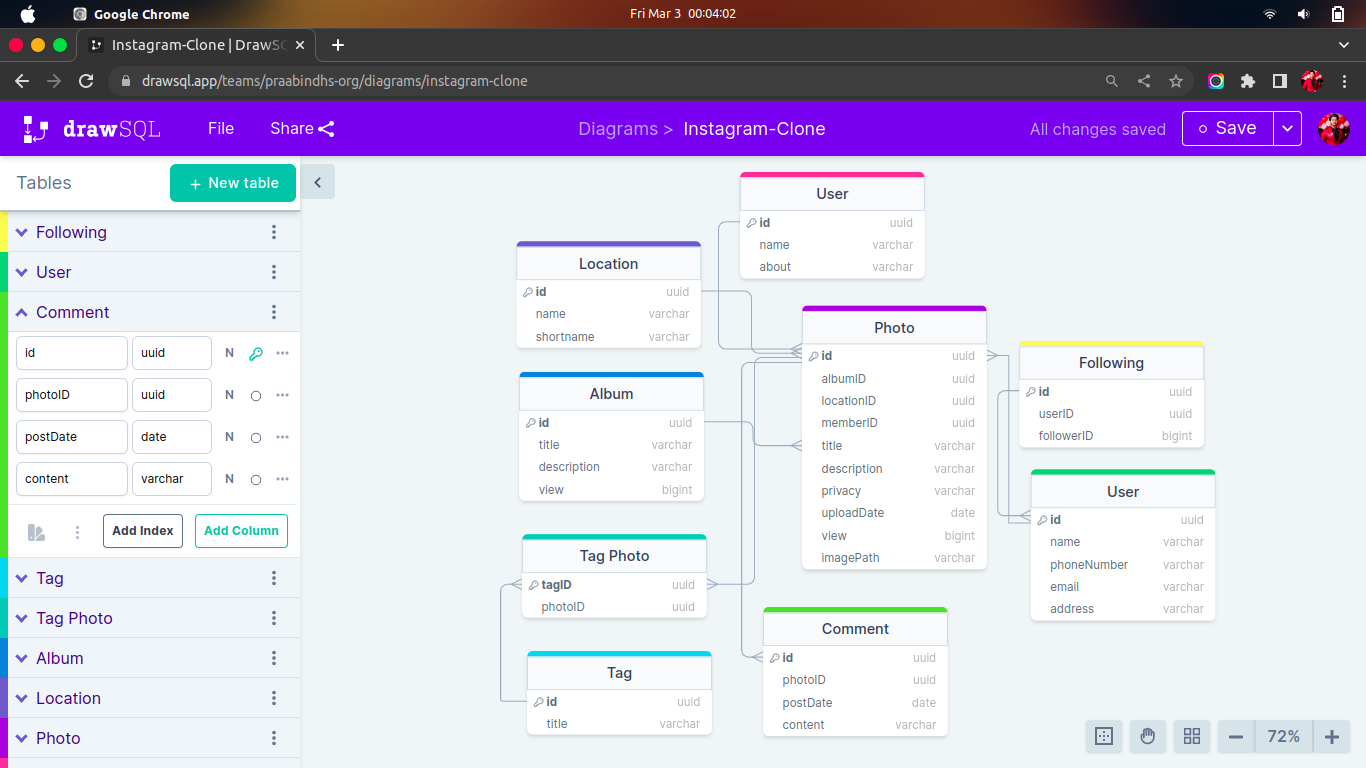
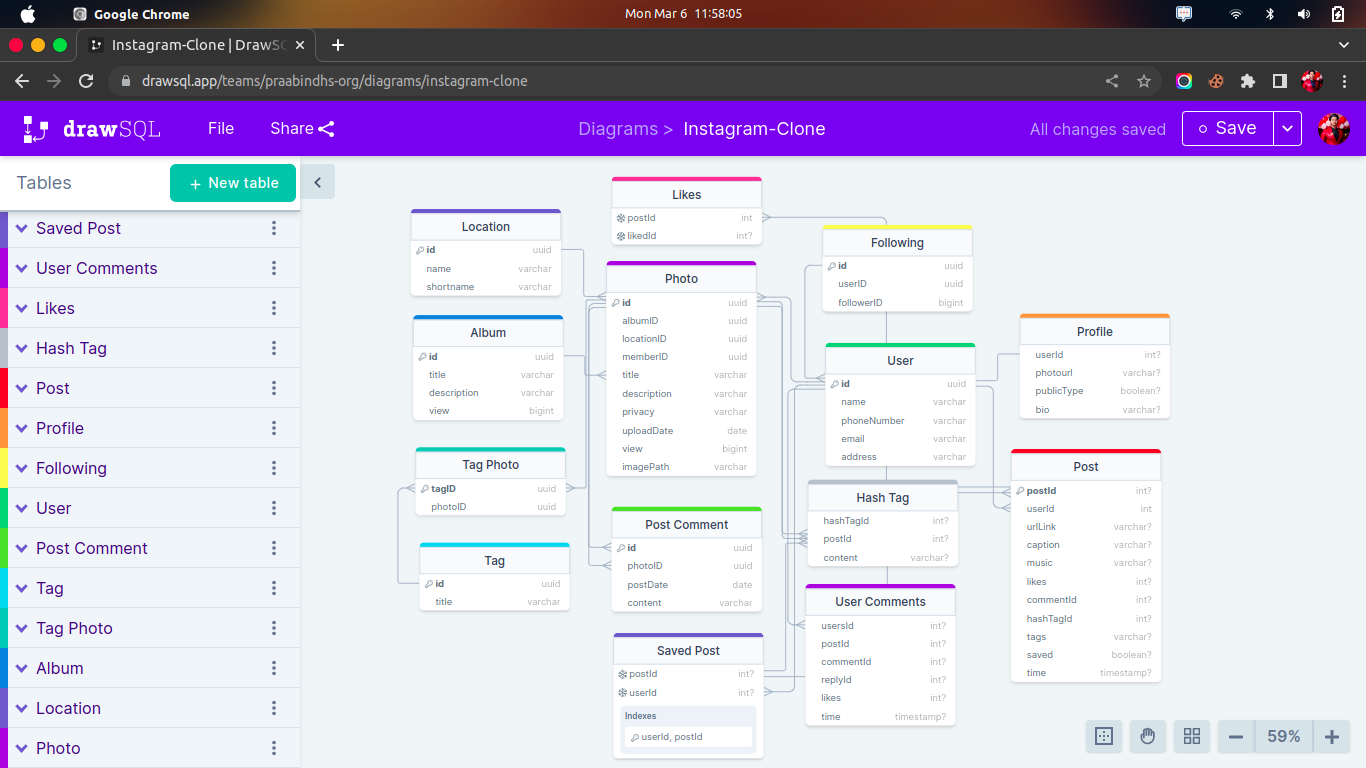
Worked With SchemaWind

diff --git a/instagram.html b/instagram.html
@@ -4,8 +4,8 @@
     <meta charset="UTF-8">
     <meta http-equiv="X-UA-Compatible" content="IE=edge">
     <meta name="viewport" content="width=device-width, initial-scale=1.0">
-    <title>SchemaWind | Praabindh's Org</title>
-    <link rel="SQL-Draw" href="https://drawsql.app/teams/praabindhs-org/diagrams/paypal-clone/embed" />
+    <title>SchemaWind | Instagram</title>
+    <link rel="SQL-Draw" href="https://drawsql.app/teams/praabindhs-org/diagrams/instagram-clone/embed"/>
 
     <!-- Meta SEO -->
     <meta name="title" content="Landwind - Tailwind CSS Landing Page">
@@ -38,7 +38,7 @@
                         <a class="github-button" href="https://github.com/praabindh/SchemaWind" data-size="large" data-icon="octicon-star" data-show-count="true" aria-label="Star themesberg/landwind on GitHub">Star</a>
                     </div>
                     <a href="#" class="text-gray-800 dark:text-white hover:bg-gray-50 focus:ring-4 focus:ring-gray-300 font-medium rounded-lg text-sm px-4 lg:px-5 py-2 lg:py-2.5 sm:mr-2 dark:hover:bg-gray-700 focus:outline-none dark:focus:ring-gray-800">Log In</a>
-                    <a href="SQLs/Paypal-PGSQL.sql" download class="text-white bg-purple-700 hover:bg-purple-800 focus:ring-4 focus:ring-purple-300 font-medium rounded-lg text-sm px-4 lg:px-5 py-2 lg:py-2.5 sm:mr-2 lg:mr-0 dark:bg-purple-600 dark:hover:bg-purple-700 focus:outline-none dark:focus:ring-purple-800">Download SQL</a>
+                    <a href="SQLs/Instagram-MySQL.sql" download class="text-white bg-purple-700 hover:bg-purple-800 focus:ring-4 focus:ring-purple-300 font-medium rounded-lg text-sm px-4 lg:px-5 py-2 lg:py-2.5 sm:mr-2 lg:mr-0 dark:bg-purple-600 dark:hover:bg-purple-700 focus:outline-none dark:focus:ring-purple-800">Download SQL</a>
                     <button data-collapse-toggle="mobile-menu-2" type="button" class="inline-flex items-center p-2 ml-1 text-sm text-gray-500 rounded-lg lg:hidden hover:bg-gray-100 focus:outline-none focus:ring-2 focus:ring-gray-200 dark:text-gray-400 dark:hover:bg-gray-700 dark:focus:ring-gray-600" aria-controls="mobile-menu-2" aria-expanded="false">
                         <span class="sr-only">Open Main Menu</span>
                         <svg class="w-6 h-6" fill="currentColor" viewBox="0 0 20 20" xmlns="http://www.w3.org/2000/svg"><path fill-rule="evenodd" d="M3 5a1 1 0 011-1h12a1 1 0 110 2H4a1 1 0 01-1-1zM3 10a1 1 0 011-1h12a1 1 0 110 2H4a1 1 0 01-1-1zM3 15a1 1 0 011-1h12a1 1 0 110 2H4a1 1 0 01-1-1z" clip-rule="evenodd"></path></svg>
@@ -72,19 +72,19 @@
     <section class="bg-white dark:bg-gray-900">
         <div class="grid max-w-screen-xl px-4 pt-20 pb-8 mx-auto lg:gap-8 xl:gap-0 lg:py-16 lg:grid-cols-12 lg:pt-28">
             <div class="mr-auto place-self-center lg:col-span-7">
-                <h1 class="max-w-2xl mb-4 text-4xl font-extrabold leading-none tracking-tight md:text-5xl xl:text-6xl dark:text-white">The SchemaWind<br>By Praabindh's Org</h1>
-                <p class="max-w-2xl mb-6 font-light text-gray-500 lg:mb-8 md:text-lg lg:text-xl dark:text-gray-400">An open-source project for developers to use working schema of various fields of technological domains as well as for contributing to resolving the rising demands of models, database, and schema structures.</p>
+                <h1 class="max-w-2xl mb-4 text-4xl font-extrabold leading-none tracking-tight md:text-5xl xl:text-6xl dark:text-white">Instagram's Schema <br>By Praabindh.</h1>
+                <p class="max-w-2xl mb-6 font-light text-gray-500 lg:mb-8 md:text-lg lg:text-xl dark:text-gray-400">PostgreSQL is the primary database of the application, it stores most of the data of the platform such as user data, photos, tags, meta-tags, etc.</p>
                 <div class="space-y-4 sm:flex sm:space-y-0 sm:space-x-4">
                     <a href="https://github.com/praabindhp" class="inline-flex items-center justify-center w-full px-5 py-3 text-sm font-medium text-center text-gray-900 border border-gray-200 rounded-lg sm:w-auto hover:bg-gray-100 focus:ring-4 focus:ring-gray-100 dark:text-white dark:border-gray-700 dark:hover:bg-gray-700 dark:focus:ring-gray-800">
                         <svg class="w-4 h-4 mr-2 text-gray-500 dark:text-gray-400" xmlns="http://www.w3.org/2000/svg" viewBox="0 0 496 512"><!-- Font Awesome Pro 5.15.4 by @fontawesome - https://fontawesome.com License - https://fontawesome.com/license (Commercial License) --><path d="M165.9 397.4c0 2-2.3 3.6-5.2 3.6-3.3.3-5.6-1.3-5.6-3.6 0-2 2.3-3.6 5.2-3.6 3-.3 5.6 1.3 5.6 3.6zm-31.1-4.5c-.7 2 1.3 4.3 4.3 4.9 2.6 1 5.6 0 6.2-2s-1.3-4.3-4.3-5.2c-2.6-.7-5.5.3-6.2 2.3zm44.2-1.7c-2.9.7-4.9 2.6-4.6 4.9.3 2 2.9 3.3 5.9 2.6 2.9-.7 4.9-2.6 4.6-4.6-.3-1.9-3-3.2-5.9-2.9zM244.8 8C106.1 8 0 113.3 0 252c0 110.9 69.8 205.8 169.5 239.2 12.8 2.3 17.3-5.6 17.3-12.1 0-6.2-.3-40.4-.3-61.4 0 0-70 15-84.7-29.8 0 0-11.4-29.1-27.8-36.6 0 0-22.9-15.7 1.6-15.4 0 0 24.9 2 38.6 25.8 21.9 38.6 58.6 27.5 72.9 20.9 2.3-16 8.8-27.1 16-33.7-55.9-6.2-112.3-14.3-112.3-110.5 0-27.5 7.6-41.3 23.6-58.9-2.6-6.5-11.1-33.3 2.6-67.9 20.9-6.5 69 27 69 27 20-5.6 41.5-8.5 62.8-8.5s42.8 2.9 62.8 8.5c0 0 48.1-33.6 69-27 13.7 34.7 5.2 61.4 2.6 67.9 16 17.7 25.8 31.5 25.8 58.9 0 96.5-58.9 104.2-114.8 110.5 9.2 7.9 17 22.9 17 46.4 0 33.7-.3 75.4-.3 83.6 0 6.5 4.6 14.4 17.3 12.1C428.2 457.8 496 362.9 496 252 496 113.3 383.5 8 244.8 8zM97.2 352.9c-1.3 1-1 3.3.7 5.2 1.6 1.6 3.9 2.3 5.2 1 1.3-1 1-3.3-.7-5.2-1.6-1.6-3.9-2.3-5.2-1zm-10.8-8.1c-.7 1.3.3 2.9 2.3 3.9 1.6 1 3.6.7 4.3-.7.7-1.3-.3-2.9-2.3-3.9-2-.6-3.6-.3-4.3.7zm32.4 35.6c-1.6 1.3-1 4.3 1.3 6.2 2.3 2.3 5.2 2.6 6.5 1 1.3-1.3.7-4.3-1.3-6.2-2.2-2.3-5.2-2.6-6.5-1zm-11.4-14.7c-1.6 1-1.6 3.6 0 5.9 1.6 2.3 4.3 3.3 5.6 2.3 1.6-1.3 1.6-3.9 0-6.2-1.4-2.3-4-3.3-5.6-2z"/></svg> GitHub Profile
-                    </a>
-                    <a href="https://drawsql.app/teams/praabindhs-org/diagrams/paypal-clone" class="inline-flex items-center justify-center w-full px-5 py-3 mb-2 mr-2 text-sm font-medium text-gray-900 bg-white border border-gray-200 rounded-lg sm:w-auto focus:outline-none hover:bg-gray-100 hover:text-blue-700 focus:z-10 focus:ring-4 focus:ring-gray-200 dark:focus:ring-gray-700 dark:bg-gray-800 dark:text-gray-400 dark:border-gray-600 dark:hover:text-white dark:hover:bg-gray-700">
+                    </a> 
+                    <a href="https://drawsql.app/teams/praabindhs-org/diagrams/instagram-clone" class="inline-flex items-center justify-center w-full px-5 py-3 mb-2 mr-2 text-sm font-medium text-gray-900 bg-white border border-gray-200 rounded-lg sm:w-auto focus:outline-none hover:bg-gray-100 hover:text-blue-700 focus:z-10 focus:ring-4 focus:ring-gray-200 dark:focus:ring-gray-700 dark:bg-gray-800 dark:text-gray-400 dark:border-gray-600 dark:hover:text-white dark:hover:bg-gray-700">
                         <svg class="w-4 h-4 mr-2" id="Layer_1" xmlns="http://www.w3.org/2000/svg" viewBox="0 0 200 300" width="1667" height="2500"><style type="text/css">.st0{fill:#0acf83}.st1{fill:#a259ff}.st2{fill:#f24e1e}.st3{fill:#ff7262}.st4{fill:#1abcfe}</style><title>Figma.logo</title><desc>Created using Figma</desc><path id="path0_fill" class="st0" d="M50 300c27.6 0 50-22.4 50-50v-50H50c-27.6 0-50 22.4-50 50s22.4 50 50 50z"/><path id="path1_fill" class="st1" d="M0 150c0-27.6 22.4-50 50-50h50v100H50c-27.6 0-50-22.4-50-50z"/><path id="path1_fill_1_" class="st2" d="M0 50C0 22.4 22.4 0 50 0h50v100H50C22.4 100 0 77.6 0 50z"/><path id="path2_fill" class="st3" d="M100 0h50c27.6 0 50 22.4 50 50s-22.4 50-50 50h-50V0z"/><path id="path3_fill" class="st4" d="M200 150c0 27.6-22.4 50-50 50s-50-22.4-50-50 22.4-50 50-50 50 22.4 50 50z"/></svg> Schema File
                     </a>
                 </div>
             </div>
             <div class="hidden lg:mt-0 lg:col-span-5 lg:flex">
-                <a href="index.html"><img src="./images/hero.png" alt="hero image"></a>
+                <a href="index.html"><img src="./images/Instagram-Hero.png" alt="hero image"></a>
             </div>                
         </div>
     </section>
@@ -119,8 +119,32 @@
     <section class="bg-gray-50 dark:bg-gray-800">
         <div class="max-w-screen-xl px-4 py-8 mx-auto space-y-12 lg:space-y-20 lg:py-24 lg:px-6">
             <!-- Row -->
-            <div class="items-center gap-8 lg:grid lg:grid-cols-1 xl:gap-16">
-                <iframe width="100%" height="500px" style="box-shadow: 0 2px 8px 0 rgba(63,69,81,0.16); border-radius:15px;" allowtransparency="true" allowfullscreen="true" scrolling="no" title="Embedded DrawSQL IFrame" frameborder="0" src="https://drawsql.app/teams/praabindhs-org/diagrams/paypal-clone/embed"></iframe>
+            <div class="items-center gap-8 lg:grid lg:grid-cols-2 xl:gap-16">
+                <div class="text-gray-500 sm:text-lg dark:text-gray-400">
+                    <h2 class="mb-4 text-3xl font-extrabold tracking-tight text-gray-900 dark:text-white">Instagram Schema Using DrawSQL</h2>
+                    <p class="mb-8 font-light lg:text-xl">Instagram database schema portrays the “blueprint” of a database which describes how the data may relate to other tables or other data models.</p>
+                    <!-- List -->
+                    <ul role="list" class="pt-8 space-y-5 border-t border-gray-200 my-7 dark:border-gray-700">
+                        <li class="flex space-x-3">
+                            <!-- Icon -->
+                            <svg class="flex-shrink-0 w-5 h-5 text-purple-500 dark:text-purple-400" fill="currentColor" viewBox="0 0 20 20" xmlns="http://www.w3.org/2000/svg"><path fill-rule="evenodd" d="M10 18a8 8 0 100-16 8 8 0 000 16zm3.707-9.293a1 1 0 00-1.414-1.414L9 10.586 7.707 9.293a1 1 0 00-1.414 1.414l2 2a1 1 0 001.414 0l4-4z" clip-rule="evenodd"></path></svg>
+                            <span class="text-base font-medium leading-tight text-gray-900 dark:text-white">Continuous Integration And Deployment</span>
+                        </li>
+                        <li class="flex space-x-3">
+                            <!-- Icon -->
+                            <svg class="flex-shrink-0 w-5 h-5 text-purple-500 dark:text-purple-400" fill="currentColor" viewBox="0 0 20 20" xmlns="http://www.w3.org/2000/svg"><path fill-rule="evenodd" d="M10 18a8 8 0 100-16 8 8 0 000 16zm3.707-9.293a1 1 0 00-1.414-1.414L9 10.586 7.707 9.293a1 1 0 00-1.414 1.414l2 2a1 1 0 001.414 0l4-4z" clip-rule="evenodd"></path></svg>
+                            <span class="text-base font-medium leading-tight text-gray-900 dark:text-white">Developmental Workflow</span>
+                        </li>
+                        <li class="flex space-x-3">
+                            <!-- Icon -->
+                            <svg class="flex-shrink-0 w-5 h-5 text-purple-500 dark:text-purple-400" fill="currentColor" viewBox="0 0 20 20" xmlns="http://www.w3.org/2000/svg"><path fill-rule="evenodd" d="M10 18a8 8 0 100-16 8 8 0 000 16zm3.707-9.293a1 1 0 00-1.414-1.414L9 10.586 7.707 9.293a1 1 0 00-1.414 1.414l2 2a1 1 0 001.414 0l4-4z" clip-rule="evenodd"></path></svg>
+                            <span class="text-base font-medium leading-tight text-gray-900 dark:text-white">Dynamic Representation</span>
+                        </li>
+                    </ul>
+                    <p class="mb-8 font-light lg:text-xl">
+                        Instagram mainly uses two backend database systems: PostgreSQL and Cassandra. Both PostgreSQL and Cassandra have mature replication frameworks that work well as a globally consistent data store. Global data neatly maps to data stored in these servers.</p>
+                </div>
+                <iframe width="100%" height="500px" style="box-shadow: 0 2px 8px 0 rgba(63,69,81,0.16); border-radius:15px;" allowtransparency="true" allowfullscreen="true" scrolling="no" title="Embedded DrawSQL IFrame" frameborder="0" src="https://drawsql.app/teams/praabindhs-org/diagrams/instagram-clone/embed"></iframe>    
             </div>
             <!-- Row -->
         </div>

diff --git a/twitter.html b/twitter.html
@@ -4,8 +4,8 @@
     <meta charset="UTF-8">
     <meta http-equiv="X-UA-Compatible" content="IE=edge">
     <meta name="viewport" content="width=device-width, initial-scale=1.0">
-    <title>SchemaWind | Praabindh's Org</title>
-    <link rel="SQL-Draw" href="https://drawsql.app/teams/praabindhs-org/diagrams/paypal-clone/embed" />
+    <title>SchemaWind | Twitter</title>
+    <link rel="SQL-Draw" href="https://drawsql.app/teams/praabindhs-org/diagrams/twitter-clone/embed" />
 
     <!-- Meta SEO -->
     <meta name="title" content="Landwind - Tailwind CSS Landing Page">
@@ -38,7 +38,7 @@
                         <a class="github-button" href="https://github.com/praabindh/SchemaWind" data-size="large" data-icon="octicon-star" data-show-count="true" aria-label="Star themesberg/landwind on GitHub">Star</a>
                     </div>
                     <a href="#" class="text-gray-800 dark:text-white hover:bg-gray-50 focus:ring-4 focus:ring-gray-300 font-medium rounded-lg text-sm px-4 lg:px-5 py-2 lg:py-2.5 sm:mr-2 dark:hover:bg-gray-700 focus:outline-none dark:focus:ring-gray-800">Log In</a>
-                    <a href="SQLs/Paypal-PGSQL.sql" download class="text-white bg-purple-700 hover:bg-purple-800 focus:ring-4 focus:ring-purple-300 font-medium rounded-lg text-sm px-4 lg:px-5 py-2 lg:py-2.5 sm:mr-2 lg:mr-0 dark:bg-purple-600 dark:hover:bg-purple-700 focus:outline-none dark:focus:ring-purple-800">Download SQL</a>
+                    <a href="SQLs/Twitter-MySQL.sql" download class="text-white bg-purple-700 hover:bg-purple-800 focus:ring-4 focus:ring-purple-300 font-medium rounded-lg text-sm px-4 lg:px-5 py-2 lg:py-2.5 sm:mr-2 lg:mr-0 dark:bg-purple-600 dark:hover:bg-purple-700 focus:outline-none dark:focus:ring-purple-800">Download SQL</a>
                     <button data-collapse-toggle="mobile-menu-2" type="button" class="inline-flex items-center p-2 ml-1 text-sm text-gray-500 rounded-lg lg:hidden hover:bg-gray-100 focus:outline-none focus:ring-2 focus:ring-gray-200 dark:text-gray-400 dark:hover:bg-gray-700 dark:focus:ring-gray-600" aria-controls="mobile-menu-2" aria-expanded="false">
                         <span class="sr-only">Open Main Menu</span>
                         <svg class="w-6 h-6" fill="currentColor" viewBox="0 0 20 20" xmlns="http://www.w3.org/2000/svg"><path fill-rule="evenodd" d="M3 5a1 1 0 011-1h12a1 1 0 110 2H4a1 1 0 01-1-1zM3 10a1 1 0 011-1h12a1 1 0 110 2H4a1 1 0 01-1-1zM3 15a1 1 0 011-1h12a1 1 0 110 2H4a1 1 0 01-1-1z" clip-rule="evenodd"></path></svg>
@@ -72,19 +72,19 @@
     <section class="bg-white dark:bg-gray-900">
         <div class="grid max-w-screen-xl px-4 pt-20 pb-8 mx-auto lg:gap-8 xl:gap-0 lg:py-16 lg:grid-cols-12 lg:pt-28">
             <div class="mr-auto place-self-center lg:col-span-7">
-                <h1 class="max-w-2xl mb-4 text-4xl font-extrabold leading-none tracking-tight md:text-5xl xl:text-6xl dark:text-white">The SchemaWind<br>By Praabindh's Org</h1>
-                <p class="max-w-2xl mb-6 font-light text-gray-500 lg:mb-8 md:text-lg lg:text-xl dark:text-gray-400">An open-source project for developers to use working schema of various fields of technological domains as well as for contributing to resolving the rising demands of models, database, and schema structures.</p>
+                <h1 class="max-w-2xl mb-4 text-4xl font-extrabold leading-none tracking-tight md:text-5xl xl:text-6xl dark:text-white">Twitter's Schema<br>By Praabindh.</h1>
+                <p class="max-w-2xl mb-6 font-light text-gray-500 lg:mb-8 md:text-lg lg:text-xl dark:text-gray-400">Gizzard is Twitter’s distributed data storage framework built on top of MySQL (InnoDB). InnoDB was chosen because it doesn’t corrupt data. Gizzard us just a datastore.</p>
                 <div class="space-y-4 sm:flex sm:space-y-0 sm:space-x-4">
                     <a href="https://github.com/praabindhp" class="inline-flex items-center justify-center w-full px-5 py-3 text-sm font-medium text-center text-gray-900 border border-gray-200 rounded-lg sm:w-auto hover:bg-gray-100 focus:ring-4 focus:ring-gray-100 dark:text-white dark:border-gray-700 dark:hover:bg-gray-700 dark:focus:ring-gray-800">
                         <svg class="w-4 h-4 mr-2 text-gray-500 dark:text-gray-400" xmlns="http://www.w3.org/2000/svg" viewBox="0 0 496 512"><!-- Font Awesome Pro 5.15.4 by @fontawesome - https://fontawesome.com License - https://fontawesome.com/license (Commercial License) --><path d="M165.9 397.4c0 2-2.3 3.6-5.2 3.6-3.3.3-5.6-1.3-5.6-3.6 0-2 2.3-3.6 5.2-3.6 3-.3 5.6 1.3 5.6 3.6zm-31.1-4.5c-.7 2 1.3 4.3 4.3 4.9 2.6 1 5.6 0 6.2-2s-1.3-4.3-4.3-5.2c-2.6-.7-5.5.3-6.2 2.3zm44.2-1.7c-2.9.7-4.9 2.6-4.6 4.9.3 2 2.9 3.3 5.9 2.6 2.9-.7 4.9-2.6 4.6-4.6-.3-1.9-3-3.2-5.9-2.9zM244.8 8C106.1 8 0 113.3 0 252c0 110.9 69.8 205.8 169.5 239.2 12.8 2.3 17.3-5.6 17.3-12.1 0-6.2-.3-40.4-.3-61.4 0 0-70 15-84.7-29.8 0 0-11.4-29.1-27.8-36.6 0 0-22.9-15.7 1.6-15.4 0 0 24.9 2 38.6 25.8 21.9 38.6 58.6 27.5 72.9 20.9 2.3-16 8.8-27.1 16-33.7-55.9-6.2-112.3-14.3-112.3-110.5 0-27.5 7.6-41.3 23.6-58.9-2.6-6.5-11.1-33.3 2.6-67.9 20.9-6.5 69 27 69 27 20-5.6 41.5-8.5 62.8-8.5s42.8 2.9 62.8 8.5c0 0 48.1-33.6 69-27 13.7 34.7 5.2 61.4 2.6 67.9 16 17.7 25.8 31.5 25.8 58.9 0 96.5-58.9 104.2-114.8 110.5 9.2 7.9 17 22.9 17 46.4 0 33.7-.3 75.4-.3 83.6 0 6.5 4.6 14.4 17.3 12.1C428.2 457.8 496 362.9 496 252 496 113.3 383.5 8 244.8 8zM97.2 352.9c-1.3 1-1 3.3.7 5.2 1.6 1.6 3.9 2.3 5.2 1 1.3-1 1-3.3-.7-5.2-1.6-1.6-3.9-2.3-5.2-1zm-10.8-8.1c-.7 1.3.3 2.9 2.3 3.9 1.6 1 3.6.7 4.3-.7.7-1.3-.3-2.9-2.3-3.9-2-.6-3.6-.3-4.3.7zm32.4 35.6c-1.6 1.3-1 4.3 1.3 6.2 2.3 2.3 5.2 2.6 6.5 1 1.3-1.3.7-4.3-1.3-6.2-2.2-2.3-5.2-2.6-6.5-1zm-11.4-14.7c-1.6 1-1.6 3.6 0 5.9 1.6 2.3 4.3 3.3 5.6 2.3 1.6-1.3 1.6-3.9 0-6.2-1.4-2.3-4-3.3-5.6-2z"/></svg> GitHub Profile
-                    </a>
-                    <a href="https://drawsql.app/teams/praabindhs-org/diagrams/paypal-clone" class="inline-flex items-center justify-center w-full px-5 py-3 mb-2 mr-2 text-sm font-medium text-gray-900 bg-white border border-gray-200 rounded-lg sm:w-auto focus:outline-none hover:bg-gray-100 hover:text-blue-700 focus:z-10 focus:ring-4 focus:ring-gray-200 dark:focus:ring-gray-700 dark:bg-gray-800 dark:text-gray-400 dark:border-gray-600 dark:hover:text-white dark:hover:bg-gray-700">
+                    </a> 
+                    <a href="https://drawsql.app/teams/praabindhs-org/diagrams/twitter-clone" class="inline-flex items-center justify-center w-full px-5 py-3 mb-2 mr-2 text-sm font-medium text-gray-900 bg-white border border-gray-200 rounded-lg sm:w-auto focus:outline-none hover:bg-gray-100 hover:text-blue-700 focus:z-10 focus:ring-4 focus:ring-gray-200 dark:focus:ring-gray-700 dark:bg-gray-800 dark:text-gray-400 dark:border-gray-600 dark:hover:text-white dark:hover:bg-gray-700">
                         <svg class="w-4 h-4 mr-2" id="Layer_1" xmlns="http://www.w3.org/2000/svg" viewBox="0 0 200 300" width="1667" height="2500"><style type="text/css">.st0{fill:#0acf83}.st1{fill:#a259ff}.st2{fill:#f24e1e}.st3{fill:#ff7262}.st4{fill:#1abcfe}</style><title>Figma.logo</title><desc>Created using Figma</desc><path id="path0_fill" class="st0" d="M50 300c27.6 0 50-22.4 50-50v-50H50c-27.6 0-50 22.4-50 50s22.4 50 50 50z"/><path id="path1_fill" class="st1" d="M0 150c0-27.6 22.4-50 50-50h50v100H50c-27.6 0-50-22.4-50-50z"/><path id="path1_fill_1_" class="st2" d="M0 50C0 22.4 22.4 0 50 0h50v100H50C22.4 100 0 77.6 0 50z"/><path id="path2_fill" class="st3" d="M100 0h50c27.6 0 50 22.4 50 50s-22.4 50-50 50h-50V0z"/><path id="path3_fill" class="st4" d="M200 150c0 27.6-22.4 50-50 50s-50-22.4-50-50 22.4-50 50-50 50 22.4 50 50z"/></svg> Schema File
                     </a>
                 </div>
             </div>
             <div class="hidden lg:mt-0 lg:col-span-5 lg:flex">
-                <a href="index.html"><img src="./images/hero.png" alt="hero image"></a>
+                <a href="index.html"><img src="./images/Twitter-Hero.png" alt="hero image"></a>
             </div>                
         </div>
     </section>
@@ -119,9 +119,33 @@
     <section class="bg-gray-50 dark:bg-gray-800">
         <div class="max-w-screen-xl px-4 py-8 mx-auto space-y-12 lg:space-y-20 lg:py-24 lg:px-6">
             <!-- Row -->
-            <div class="items-center gap-8 lg:grid lg:grid-cols-1 xl:gap-16">
-                <iframe width="100%" height="500px" style="box-shadow: 0 2px 8px 0 rgba(63,69,81,0.16); border-radius:15px;" allowtransparency="true" allowfullscreen="true" scrolling="no" title="Embedded DrawSQL IFrame" frameborder="0" src="https://drawsql.app/teams/praabindhs-org/diagrams/paypal-clone/embed"></iframe>
-            </div>
+            <div class="items-center gap-8 lg:grid lg:grid-cols-2 xl:gap-16">
+                <div class="text-gray-500 sm:text-lg dark:text-gray-400">
+                    <h2 class="mb-4 text-3xl font-extrabold tracking-tight text-gray-900 dark:text-white">Twitter Schema Using DrawSQL</h2>
+                    <p class="mb-8 font-light lg:text-xl">Twitter database schema portrays the “blueprint” of a database which describes how the data may relate to other tables or other data models.</p>
+                    <!-- List -->
+                    <ul role="list" class="pt-8 space-y-5 border-t border-gray-200 my-7 dark:border-gray-700">
+                        <li class="flex space-x-3">
+                            <!-- Icon -->
+                            <svg class="flex-shrink-0 w-5 h-5 text-purple-500 dark:text-purple-400" fill="currentColor" viewBox="0 0 20 20" xmlns="http://www.w3.org/2000/svg"><path fill-rule="evenodd" d="M10 18a8 8 0 100-16 8 8 0 000 16zm3.707-9.293a1 1 0 00-1.414-1.414L9 10.586 7.707 9.293a1 1 0 00-1.414 1.414l2 2a1 1 0 001.414 0l4-4z" clip-rule="evenodd"></path></svg>
+                            <span class="text-base font-medium leading-tight text-gray-900 dark:text-white">Continuous Integration And Deployment</span>
+                        </li>
+                        <li class="flex space-x-3">
+                            <!-- Icon -->
+                            <svg class="flex-shrink-0 w-5 h-5 text-purple-500 dark:text-purple-400" fill="currentColor" viewBox="0 0 20 20" xmlns="http://www.w3.org/2000/svg"><path fill-rule="evenodd" d="M10 18a8 8 0 100-16 8 8 0 000 16zm3.707-9.293a1 1 0 00-1.414-1.414L9 10.586 7.707 9.293a1 1 0 00-1.414 1.414l2 2a1 1 0 001.414 0l4-4z" clip-rule="evenodd"></path></svg>
+                            <span class="text-base font-medium leading-tight text-gray-900 dark:text-white">Developmental Workflow</span>
+                        </li>
+                        <li class="flex space-x-3">
+                            <!-- Icon -->
+                            <svg class="flex-shrink-0 w-5 h-5 text-purple-500 dark:text-purple-400" fill="currentColor" viewBox="0 0 20 20" xmlns="http://www.w3.org/2000/svg"><path fill-rule="evenodd" d="M10 18a8 8 0 100-16 8 8 0 000 16zm3.707-9.293a1 1 0 00-1.414-1.414L9 10.586 7.707 9.293a1 1 0 00-1.414 1.414l2 2a1 1 0 001.414 0l4-4z" clip-rule="evenodd"></path></svg>
+                            <span class="text-base font-medium leading-tight text-gray-900 dark:text-white">Dynamic Representation</span>
+                        </li>
+                    </ul>
+                    <p class="mb-8 font-light lg:text-xl">
+                        Twitter now has 300M worldwide active users. Every second on an average, around 6,000 tweets are tweeted on Twitter. Also, every second 6,00,000 Queries made to get the timelines.</p>
+                </div>
+                <iframe width="100%" height="500px" style="box-shadow: 0 2px 8px 0 rgba(63,69,81,0.16); border-radius:15px;" allowtransparency="true" allowfullscreen="true" scrolling="no" title="Embedded DrawSQL IFrame" frameborder="0" src="https://drawsql.app/teams/praabindhs-org/diagrams/twitter-clone/embed"></iframe>
+                </div>
             <!-- Row -->
         </div>
       </section>

diff --git a/netflix.html b/netflix.html
@@ -1,12 +1,11 @@
 <!DOCTYPE html>
  <html lang="en">
 <head>
-    <link rel="canonical" href="https://https://demo.themesberg.com/landwind/" />
     <meta charset="UTF-8">
     <meta http-equiv="X-UA-Compatible" content="IE=edge">
     <meta name="viewport" content="width=device-width, initial-scale=1.0">
-    <title>SchemaWind | Praabindh's Org</title>
-    <link rel="SQL-Draw" href="https://drawsql.app/teams/praabindhs-org/diagrams/netflix-clone/embed" />
+    <title>SchemaWind | Netflix</title>
+    <link rel="SQL-Draw" href="https://drawsql.app/teams/praabindhs-org/diagrams/netflix-clone/embed"/>
 
     <!-- Meta SEO -->
     <meta name="title" content="Landwind - Tailwind CSS Landing Page">
@@ -14,18 +13,7 @@
     <meta name="robots" content="index, follow">
     <meta http-equiv="Content-Type" content="text/html; charset=utf-8">
     <meta name="language" content="English">
-    <meta name="author" content="Themesberg">
-
-    <!-- Social media share -->
-    <meta property="og:title" content=Landwind - Tailwind CSS Landing Page>
-    <meta property="og:site_name" content=Themesberg>
-    <meta property="og:url" content=https://https://demo.themesberg.com/landwind/>
-    <meta property="og:description" content=Get started with a free and open-source landing page for Tailwind CSS built with the Flowbite component library featuring dark mode, hero sections, pricing cards, and more.>
-    <meta property="og:type" content="">
-    <meta property="og:image" content=https://themesberg.s3.us-east-2.amazonaws.com/public/github/landwind/og-image.png>
-    <meta name="twitter:card" content="summary" />
-    <meta name="twitter:site" content="@themesberg" />
-    <meta name="twitter:creator" content="@themesberg" />
+    <meta name="author" content="Praabindh Pradeep">
 
     <!-- Favicon -->
     <link rel="apple-touch-icon" sizes="180x180" href="/apple-touch-icon.png">
@@ -52,7 +40,7 @@
                     <a href="#" class="text-gray-800 dark:text-white hover:bg-gray-50 focus:ring-4 focus:ring-gray-300 font-medium rounded-lg text-sm px-4 lg:px-5 py-2 lg:py-2.5 sm:mr-2 dark:hover:bg-gray-700 focus:outline-none dark:focus:ring-gray-800">Log In</a>
                     <a href="SQLs/Netflix-MySQL.sql" download class="text-white bg-purple-700 hover:bg-purple-800 focus:ring-4 focus:ring-purple-300 font-medium rounded-lg text-sm px-4 lg:px-5 py-2 lg:py-2.5 sm:mr-2 lg:mr-0 dark:bg-purple-600 dark:hover:bg-purple-700 focus:outline-none dark:focus:ring-purple-800">Download SQL</a>
                     <button data-collapse-toggle="mobile-menu-2" type="button" class="inline-flex items-center p-2 ml-1 text-sm text-gray-500 rounded-lg lg:hidden hover:bg-gray-100 focus:outline-none focus:ring-2 focus:ring-gray-200 dark:text-gray-400 dark:hover:bg-gray-700 dark:focus:ring-gray-600" aria-controls="mobile-menu-2" aria-expanded="false">
-                        <span class="sr-only">Open main menu</span>
+                        <span class="sr-only">Open Main Menu</span>
                         <svg class="w-6 h-6" fill="currentColor" viewBox="0 0 20 20" xmlns="http://www.w3.org/2000/svg"><path fill-rule="evenodd" d="M3 5a1 1 0 011-1h12a1 1 0 110 2H4a1 1 0 01-1-1zM3 10a1 1 0 011-1h12a1 1 0 110 2H4a1 1 0 01-1-1zM3 15a1 1 0 011-1h12a1 1 0 110 2H4a1 1 0 01-1-1z" clip-rule="evenodd"></path></svg>
                         <svg class="hidden w-6 h-6" fill="currentColor" viewBox="0 0 20 20" xmlns="http://www.w3.org/2000/svg"><path fill-rule="evenodd" d="M4.293 4.293a1 1 0 011.414 0L10 8.586l4.293-4.293a1 1 0 111.414 1.414L11.414 10l4.293 4.293a1 1 0 01-1.414 1.414L10 11.414l-4.293 4.293a1 1 0 01-1.414-1.414L8.586 10 4.293 5.707a1 1 0 010-1.414z" clip-rule="evenodd"></path></svg>
                     </button>
@@ -108,10 +96,10 @@
                 <a href="netflix.html" class="flex items-center lg:justify-center">
                     <img src="images/Netflix.png">                    
                 </a>
-                <a href="#" class="flex items-center lg:justify-center">
+                <a href="twitter.html" class="flex items-center lg:justify-center">
                     <img src="images/Twitter.png">                                                                               
                 </a>
-                <a href="#" class="flex items-center lg:justify-center">
+                <a href="instagram.html" class="flex items-center lg:justify-center">
                     <img src="images/Instagram.png">                                
                 </a>
                 <a href="#" class="flex items-center lg:justify-center">
